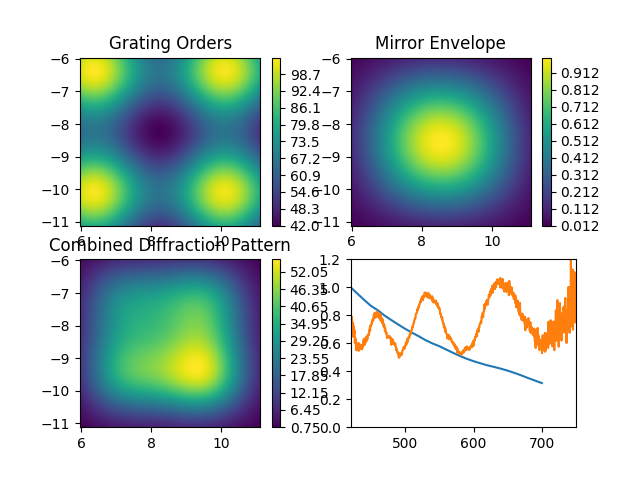
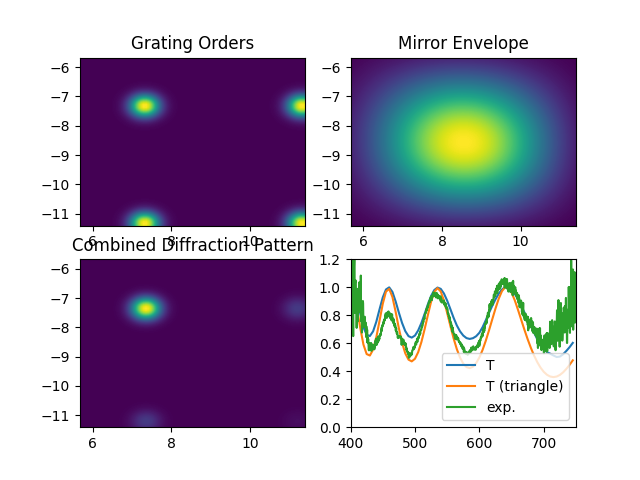
dont know

diff --git a/functions.py b/functions.py
@@ -1,18 +1,13 @@
 import numpy as np
-import scipy as sp
 import matplotlib.pyplot as plt
 import pandas as pd
 from functions import *
-from scipy.special import j1
-import sys
-from tqdm import tqdm
 import time
 
 # Python 3.7.9
 
 ###TO DO
 # sort normalization of E so that can calculate total power, and transmission as a percentage.
-# speed up timing
 # camera pixel location
 
 class DMD_parameters:
@@ -41,7 +36,7 @@ class output_parameters:
 
     def __init__(self, lens_NA, angle_x_centre, angle_y_centre, datapoints):
         self.lens_NA = lens_NA
-        self.half_angle = 2*np.arcsin(lens_NA)
+        self.half_angle = np.arcsin(lens_NA)
         self.angle_x_centre = angle_x_centre
         self.angle_y_centre = angle_y_centre
         self.datapoint = datapoints
@@ -58,7 +53,7 @@ class output_parameters:
         self.effective_angle_of_vector = np.sqrt(
             (self.angle_x_array_meshed-angle_x_centre)**2+(self.angle_y_array_meshed-self.angle_y_centre)**2)
         self.collected_vectors = self.effective_angle_of_vector < self.half_angle
-        self.collected_vectors_triangle=abs(self.half_angle-self.effective_angle_of_vector)
+        self.collected_vectors_triangle=abs(2*self.half_angle-self.effective_angle_of_vector)
 
 
 class vector:
@@ -91,7 +86,6 @@ def envelope_function(input, output, dmd):
 
 def calculate_orders(input, output, DMD):
     # find range of orders which fit in the output lens
-
     # for x angles
     alpha_x = input.angle_x_centre
     beta_x = output.angle_x_centre
@@ -119,92 +113,25 @@ def gaussian2D_normalized(x, x0, y, y0, w):
     return value
 
 
-def jinc(x):
-    if x.all() == 0.0:
-        return 0.5
-    return j1(x) / x
-
-def jinc_functions(x, x0, y, y0, a,wavelength,f):
-    print(a)
-    value =(2*np.pi*a**2/(4*wavelength*f))*jinc((np.pi*a/wavelength)*np.sqrt(np.tan(x-x0)**2+np.tan(y-y0)**2))
-    return value
-
-
 def grating_function(input, output, dmd):
     [order_angles_x, order_angles_y] = calculate_orders(input, output, dmd)
     data = np.zeros((output.datapoint, output.datapoint))
-
-    effective_beam_size=4*input.wavelength/(np.pi*input.lens_NA)
+    effective_beam_size=4*input.wavelength/(np.pi*input.lens_NA)# from FT of lens
     sigma = input.wavelength/(2*effective_beam_size*np.pi)
 
     for order_x in order_angles_x:
         for order_y in order_angles_y:
             data = data+gaussian2D_normalized(output.angle_x_array_meshed,
                                               order_x, output.angle_y_array_meshed, order_y, sigma)
-            #data = data+jinc_functions(output.angle_x_array_meshed,
-             #                                 order_x, output.angle_y_array_meshed, order_y, 2*(input.focal_length)*input.lens_NA, input.wavelength, input.focal_length)
     return data
 
 def calculate_diffraction_pattern_image(input, output, dmd):
     E2_grating = grating_function(input, output, dmd) ** 2
     E2_envelope = envelope_function(input, output, dmd) **2
     diffraction_image = E2_grating * E2_envelope
-    #image_collected = diffraction_image * output.collected_vectors
-    image_collected = diffraction_image * output.collected_vectors_triangle
+    image_collected = diffraction_image * output.collected_vectors
+    image_collected_triangle = diffraction_image * output.collected_vectors_triangle
     total_power_collected=np.sum(np.sum(image_collected))
+    total_power_collected_triangle= np.sum(np.sum(image_collected_triangle))
+    return [diffraction_image,total_power_collected,total_power_collected_triangle,E2_grating,E2_envelope]
 
-
-    return [diffraction_image,total_power_collected,E2_grating,E2_envelope]
-
-
-
-def diff_image_integrated_input_NA(input, output, dmd,integration_points):
-
-    input_angle_x_array = np.linspace(
-        input.angle_x_centre - input.half_angle, input.angle_x_centre + input.half_angle, integration_points)
-    input_angle_y_array = np.linspace(
-        input.angle_y_centre - input.half_angle, input.angle_y_centre + input.half_angle, integration_points)
-    [input_angle_x_array_meshed, input_angle_y_array_meshed] = np.meshgrid(
-        input_angle_x_array, input_angle_y_array)
-
-    effective_angle_of_vector = np.sqrt(
-        (input_angle_x_array_meshed - input.angle_x_centre) ** 2 + (input_angle_y_array_meshed - input.angle_y_centre) ** 2)
-    collected_input_vectors = abs(effective_angle_of_vector) < input.half_angle
-
-    input_angles_x=input_angle_x_array_meshed*collected_input_vectors
-    input_angles_x=input_angles_x.flatten()
-    input_angles_x=input_angles_x[input_angles_x!=0]
-    input_angles_y = input_angle_y_array_meshed * collected_input_vectors
-    input_angles_y = input_angles_y.flatten()
-    input_angles_y= input_angles_y[input_angles_y != 0]
-
-    total_power_collected=0
-    diffraction_image=E2_grating=E2_envelope=np.zeros((np.shape(output.angle_x_array_meshed)))
-
-    # plt.plot(input_angle_x_array_meshed.flatten(),input_angle_y_array_meshed.flatten(),'*')
-    # plt.plot(input_angles_x, input_angles_y, '*')
-    # plt.show()
-    # toolbar_width=np.size(input_angles_x)
-    #
-    # sys.stdout.write("[%s]" % (" " * toolbar_width))
-    # sys.stdout.flush()
-    # sys.stdout.write("\b" * (toolbar_width + 1))  # return to start of line, after '['
-
-    for x in tqdm(input_angles_x):
-
-        for y in input_angles_y:
-            input_adjusted = input_parameters(input.wavelength, input.lens_NA, x, y, input.effective_beam_size)
-            [diffraction_image_temp, total_power_collected_temp, E2_grating_temp,E2_envelope_temp] = calculate_diffraction_pattern_image(input_adjusted,
-                                                                                                              output,
-                                                                                                              dmd)
-            diffraction_image=diffraction_image+diffraction_image_temp
-            total_power_collected=total_power_collected+total_power_collected_temp
-            E2_grating=E2_grating+E2_grating_temp
-            E2_envelope=E2_envelope+E2_envelope_temp
-
-    #     sys.stdout.write("-")
-    #     sys.stdout.flush()
-    #
-    # sys.stdout.write("]\n")  # this ends the progress bar
-
-    return [diffraction_image,total_power_collected,E2_grating,E2_envelope]

diff --git a/main.py b/main.py
@@ -1,9 +1,7 @@
-
 import matplotlib.pyplot as plt
 import numpy as np
 import pandas as pd
 from functions import *
-
 
 #useful constants
 mm=10**-3
@@ -11,25 +9,18 @@ um=10**-6
 nm=10**-9
 
 #initialize system
-dmd=DMD_parameters('Standard',10.8*um,0.99,np.radians(12))
+dmd=DMD_parameters('Standard',10.8*um,0.98,np.radians(12))
 input=input_parameters(600*nm,0.05,np.radians(8.54),np.radians(-8.54),150*mm)
-output=output_parameters(0.05,np.radians(8.54),np.radians(-8.54),50)
+output=output_parameters(0.05,np.radians(8.54),np.radians(-8.54),100)
 wavelengths=np.arange(400*nm,750*nm,5*nm)
-#wavelengths=np.arange(400*nm,720*nm,20*nm)
-transmission_collected_integrated=np.zeros((np.size(wavelengths)))
 transmission_collected=np.zeros((np.size(wavelengths)))
-
-
-#simulation run over wavelengths
-# - compare integrated over input beam VS single beam model
+transmission_collected_triangle=np.zeros((np.size(wavelengths)))
 
 for i in np.arange(np.size(wavelengths)):
      input.wavelength=wavelengths[i]
-     [diffraction_image,total_power_collected,E2_grating,E2_envelope]=calculate_diffraction_pattern_image(input, output, dmd)
+     [diffraction_image,total_power_collected,total_power_collected_triangle,E2_grating,E2_envelope]=calculate_diffraction_pattern_image(input, output, dmd)
      transmission_collected[i] = total_power_collected#*wavelengths[i]
-
-     #[diffraction_image_int,total_power_collected_integrated,E2_grating_int,E2_envelope_int]=diff_image_integrated_input_NA(input, output, dmd, 20) # 20-50 ok
-     #transmission_collected_integrated[i] = total_power_collected_integrated
+     transmission_collected_triangle[i]=total_power_collected_triangle#*wavelengths[i]
      print('Wavelength =' +str(input.wavelength/nm)+'nm')
 
 #import experimental data
@@ -44,45 +35,15 @@ im2=ax2.contourf(np.degrees(output.angle_x_array_meshed),np.degrees(output.angle
 im3=ax3.contourf(np.degrees(output.angle_x_array_meshed),np.degrees(output.angle_y_array_meshed),diffraction_image,500)
 
 ax4.plot(wavelengths/nm,transmission_collected/max(transmission_collected))
+ax4.plot(wavelengths/nm,transmission_collected_triangle/max(transmission_collected_triangle))
 ax4.plot(wavelengths_experimental,transmission_experimental)
 ax4.set_xlim((400,750))
 ax4.set_ylim((0,1.2))
-
-fig.colorbar(im1, ax=ax1)
-fig.colorbar(im2, ax=ax2)
-fig.colorbar(im3, ax=ax3)
+ax4.legend(['T','T (triangle)','exp.'])
 
 ax1.set_title('Grating Orders')
 ax2.set_title('Mirror Envelope')
 ax3.set_title('Combined Diffraction Pattern')
-#fig.savefig('Figure_single.png')
+fig.savefig('Figure_single.png')
 plt.show()
-
-# fig, ((ax1, ax2), (ax3, ax4)) = plt.subplots(2, 2)
-# im1=ax1.contourf(np.degrees(output.angle_x_array_meshed),np.degrees(output.angle_y_array_meshed),E2_grating_int,100)
-# im2=ax2.contourf(np.degrees(output.angle_x_array_meshed),np.degrees(output.angle_y_array_meshed),E2_envelope_int,100)
-# im3=ax3.contourf(np.degrees(output.angle_x_array_meshed),np.degrees(output.angle_y_array_meshed),diffraction_image_int,100)
-# ax4.plot(wavelengths/nm,transmission_collected_integrated/max(transmission_collected_integrated))
-# ax4.plot(wavelengths_experimental,transmission_experimental)
-# ax4.set_xlim((420,700))
-# ax4.set_ylim((0,1.2))
-#
-# fig.colorbar(im1, ax=ax1)
-# fig.colorbar(im2, ax=ax2)
-# fig.colorbar(im3, ax=ax3)
-#
-# ax1.set_title('Grating Orders')
-# ax2.set_title('Mirror Envelope')
-# ax3.set_title('Combined Diffraction Pattern')
-# fig.savefig('Figure_integrated.png')
-#
-# fig=plt.figure()
-# plt.plot(wavelengths/nm,transmission_collected/max(transmission_collected))
-# plt.plot(wavelengths/nm,transmission_collected_integrated/max(transmission_collected_integrated))
-# plt.plot(wavelengths_experimental,transmission_experimental)
-# plt.xlim((400,750))
-# plt.ylim((0,1.2))
-# plt.title('Transmission Function')
-# fig.savefig('Transmission_Plot.png')
-# plt.show()
 
